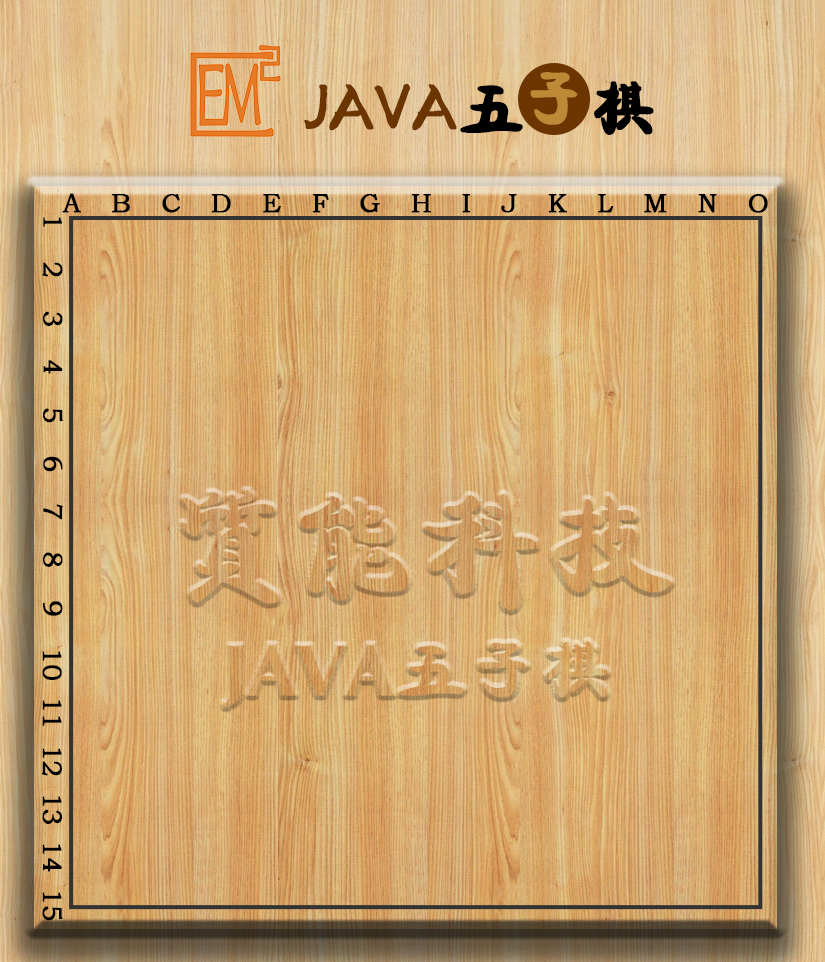
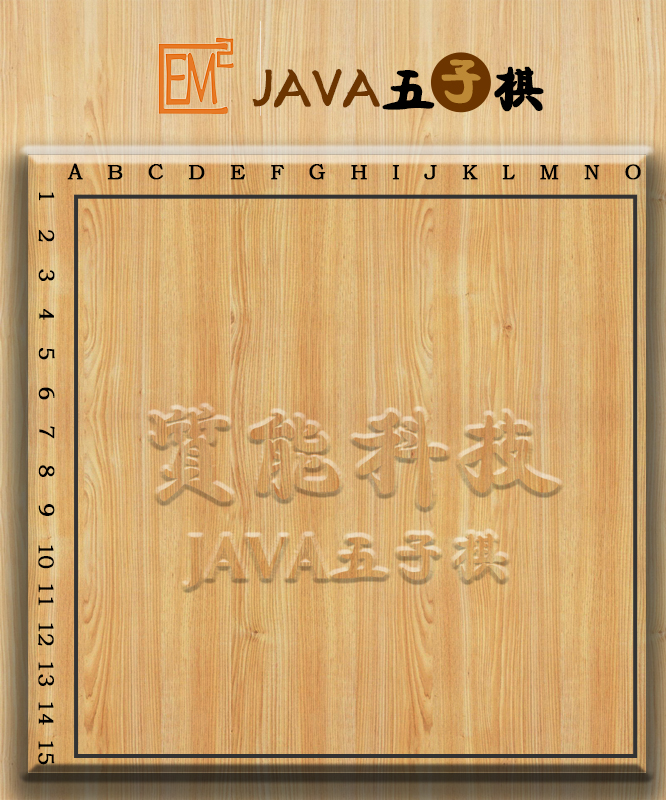
:package: Increase Button Style

diff --git a/src/ControlPanel.java b/src/ControlPanel.java
@@ -1,8 +1,9 @@
 import javax.swing.*;
 import javax.swing.border.*;
+import javax.swing.plaf.basic.BasicButtonUI;
 import java.awt.*;
 import java.awt.event.*;
-
+import java.awt.image.*;
 // 控制面板
 public class ControlPanel extends JPanel {
     private JLabel next;
@@ -17,7 +18,17 @@ public class ControlPanel extends JPanel {
     private GameCanvas gameCanvas;
     private Image img;
 
+    ImageIcon icon_on_start = new ImageIcon("img/on_start.png");
+    ImageIcon icon_press_start = new ImageIcon("img/press_start.png");
+    ImageIcon icon_on_restart = new ImageIcon("img/on_restart.png");
+    ImageIcon icon_press_restart = new ImageIcon("img/press_restart.png");
+    ImageIcon icon_on_back = new ImageIcon("img/on_back.png");
+    ImageIcon icon_press_back = new ImageIcon("img/press_back.png");
+
+
+
     public ControlPanel(GameCanvas gameCanvas) {
+        this.setPreferredSize(new Dimension(164, 800));//关键代码,设置JPanel的大小
         img = Toolkit.getDefaultToolkit().getImage("img/ControlBoard.jpg");
 
         this.gameCanvas = gameCanvas;
@@ -25,17 +36,52 @@ public class ControlPanel extends JPanel {
         this.setLayout(new GridLayout(2,1));
 
         tipBar = new JPanel(new GridLayout(2,1));
-        next = new JLabel("<html><H1>下一手</H1></html>");
+//        next = new JLabel("<html><H1>下一手</H1></html>");
         tipPanel = new TipPanel(gameCanvas);
-        tipBar.add(next, BorderLayout.NORTH);
-        tipBar.add(tipPanel, BorderLayout.SOUTH);
+//        tipBar.add(next, BorderLayout.NORTH);
+//        tipBar.add(tipPanel, BorderLayout.SOUTH);
 //        tipBar.setBorder(border);
 
 
-        toolBar = new JPanel(new GridLayout(3,1,0,20));
-        startButton = new JButton("开始");
-        backButton = new JButton("悔棋");
-        restartButton = new JButton("重新开始");
+        toolBar = new JPanel(new GridLayout(3,1));
+
+        startButton = new JButton();
+//        icon_on_start.setImage(icon_on_start.getImage().getScaledInstance(166, 82, Image.SCALE_DEFAULT));
+
+        startButton.setIcon(icon_on_start);
+        // 去掉小框
+        startButton.setUI(new BasicButtonUI());
+        // 设置尺寸
+        startButton.setPreferredSize(new Dimension(166, 82));
+        // 改透明度
+        startButton.setContentAreaFilled(false);
+        // 外边距
+        startButton.setMargin(new Insets(0, 0, 0, 0));
+        // 去掉外边框
+        startButton.setBorderPainted(false);
+        startButton.setBorder(null);
+
+
+        backButton = new JButton();
+        backButton.setIcon(icon_on_back);
+        backButton.setUI(new BasicButtonUI());
+        backButton.setPreferredSize(new Dimension(166, 82));
+        backButton.setContentAreaFilled(false);
+        backButton.setMargin(new Insets(0, 4, 0, 0));
+        backButton.setBorderPainted(false);
+        backButton.setBorder(null);
+
+
+        restartButton = new JButton();
+        restartButton.setIcon(icon_on_restart);
+        restartButton.setUI(new BasicButtonUI());
+        restartButton.setPreferredSize(new Dimension(166, 82));
+        restartButton.setContentAreaFilled(false);
+        restartButton.setMargin(new Insets(0, 4, 0, 0));
+        restartButton.setBorderPainted(false);
+        restartButton.setBorder(null);
+
+
         toolBar.add(startButton);
         toolBar.add(backButton);
         toolBar.add(restartButton);
@@ -45,6 +91,10 @@ public class ControlPanel extends JPanel {
         backButton.addActionListener(myItemListener);
         restartButton.addActionListener(myItemListener);
 
+        tipBar.setBackground(null);
+        tipBar.setOpaque(false);
+        toolBar.setBackground(null);
+        toolBar.setOpaque(false);
         add(tipBar, BorderLayout.NORTH);
         add(toolBar, BorderLayout.SOUTH);
 //        this.setBorder(border);

diff --git a/src/GameCanvas.java b/src/GameCanvas.java
@@ -6,9 +6,9 @@ import java.awt.geom.Ellipse2D;
 // 游戏场景
 public class GameCanvas extends JPanel implements MouseListener {
 
-    public static final int MARGIN_LEFT = 71;   // 左边距
-    public static final int MARGIN_TOP = 220;   // 左边距
-    public static final int GRID_SPAN = 49;//网格间距
+    public static final int MARGIN_LEFT = 75;   // 左边距
+    public static final int MARGIN_TOP = 195;   // 左边距
+    public static final int GRID_SPAN = 40;//网格间距
     public static final int ROWS = 15;//棋盘行数
     public static final int COLS = 15;//棋盘列数
 
@@ -22,7 +22,7 @@ public class GameCanvas extends JPanel implements MouseListener {
 
     // 构造方法
     public GameCanvas() {
-
+        this.setPreferredSize(new Dimension(666, 800));//关键代码,设置JPanel的大小
         img = Toolkit.getDefaultToolkit().getImage("img/ChessBoard.jpg");
         addMouseListener(this);
         addMouseMotionListener(new MouseMotionListener() {

diff --git a/src/GobangGame.java b/src/GobangGame.java
@@ -19,7 +19,7 @@ public class GobangGame extends JFrame {
         setJMenuBar(gameMenu);
 
         // 设置尺寸和不可改变大小
-        this.setSize(1000,1012);
+        this.setSize(830,850);
         this.setResizable(false);
 
         // 设置界面关闭事件
